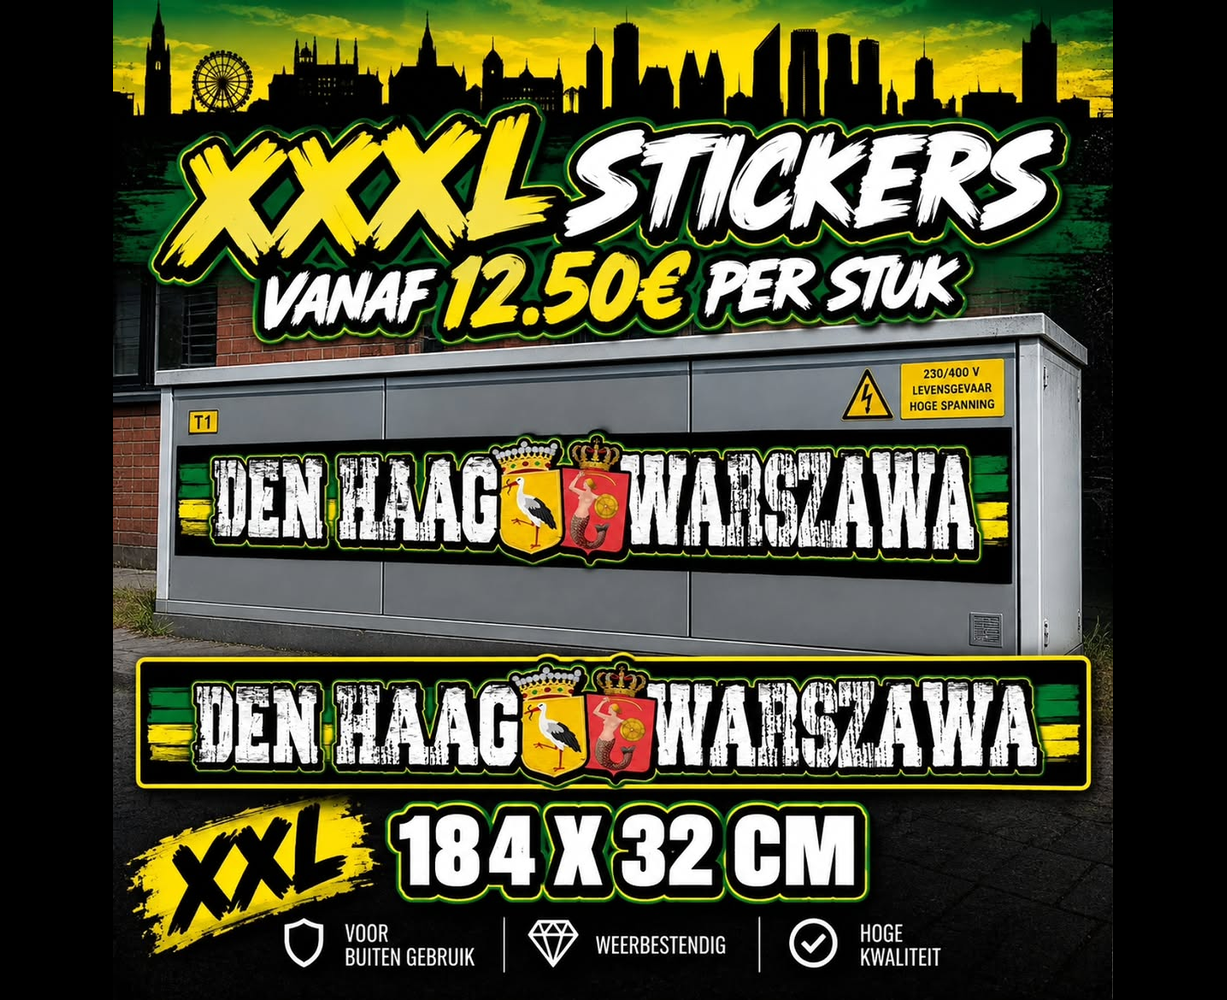
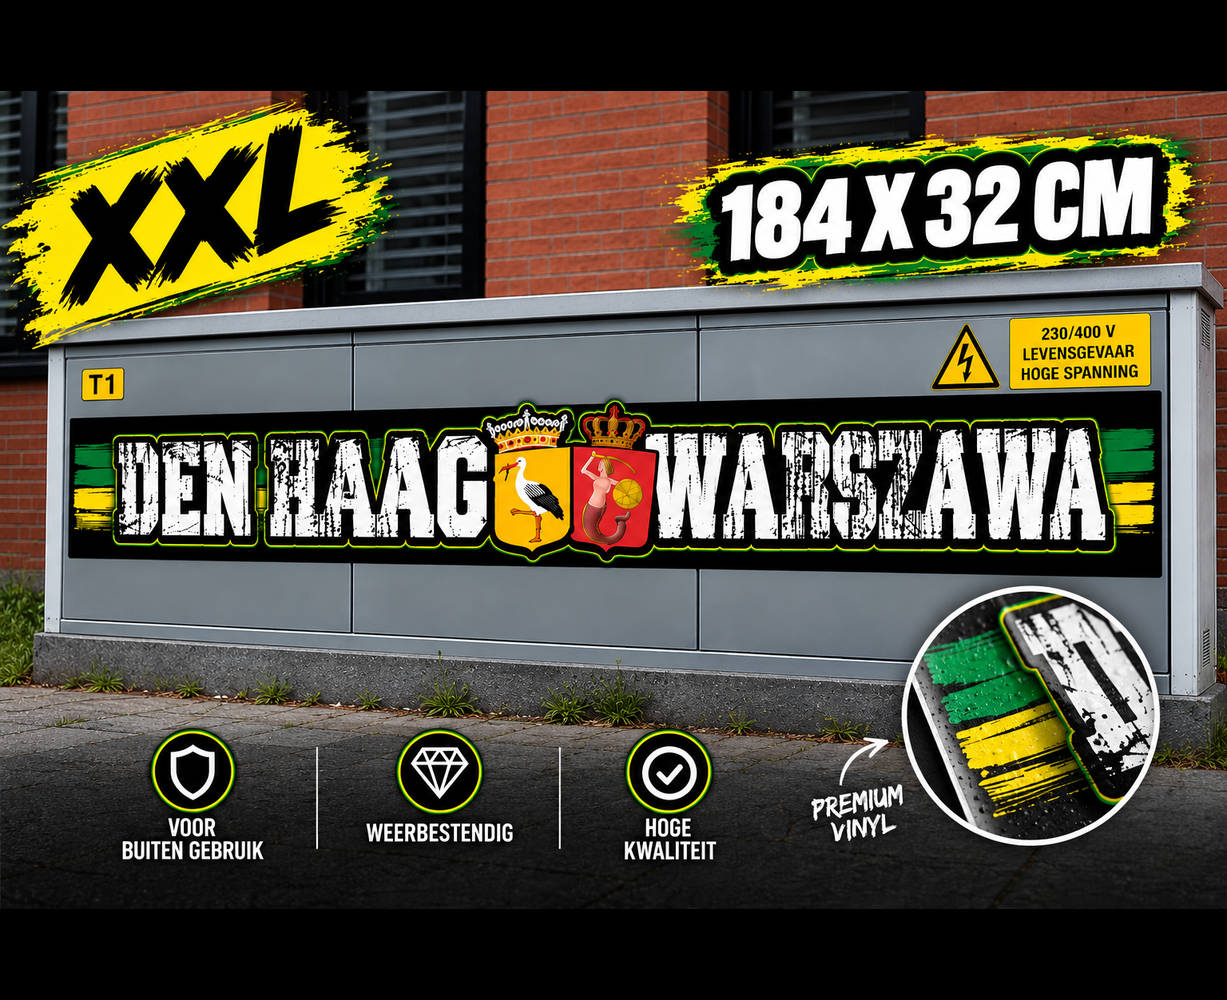
nieuwe test

diff --git a/src/App.jsx b/src/App.jsx
@@ -603,7 +603,7 @@ const PRODUCTS = [
   /* ---------------- XXL ---------------- */
   {
   id: "xxl-den-haag-warszawa",
-  title: "XXL Den Haag x Warszawa 190X32CM – Extra groot!",
+  title: "XXL Den Haag x Warszawa 184X32CM – Extra groot!",
   img: "/img/xxl-den-haag-warszawa.jpg",
   tags: ["xxl","uniek","awaydays","denhaag","warszawa" ],
   variants: [
